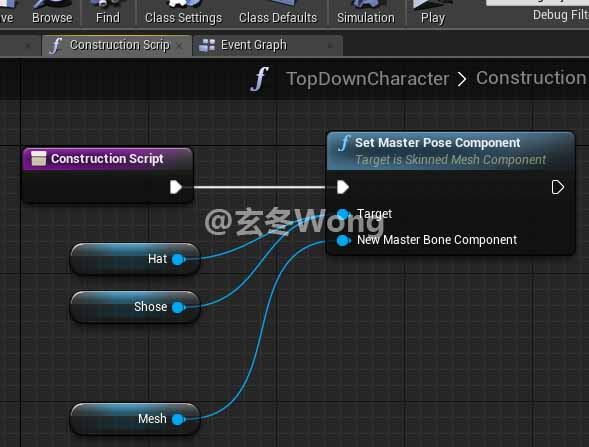
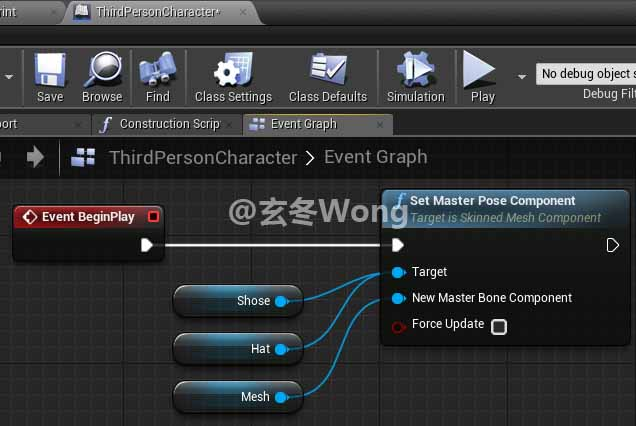
[A]add articles

diff --git a/content/post/2019/[Art]ArtStation Store Assets Collections.md b/content/post/2019/[Art]ArtStation Store Assets Collections.md
@@ -1,0 +1,87 @@
++++
+title= "[Art]ArtStation Store Assets Collections"
+date= "2019-02-12T18:53:02+08:00"
+categories= ["UnrealEngine4"]
+tags= ["UE4"]
+keywords= ["UE4", "Animation", "Assets"]
+thumbnailImage= "/thumbnail/cover-seattle-001.jpg"
+autoThumbnailImage= "true"
+thumbnailImagePosition= "top"
++++
+
+##### Scene Painting
+<!--more-->
+Full-size ILLUSTRATION 5PACK  
+https://www.artstation.com/kvacm/store/We5G/full-size-illustration-5pack
+
+Destroyed City - Matte Painting for Production  
+https://www.artstation.com/anirbansen/store/d5G0/destroyed-city-matte-painting-for-production
+
+LANIGT  
+https://www.artstation.com/billfy/store/5j2l/lanigt
+
+Tutorial Bundle 3 in 1 (Fantasy)  
+https://www.artstation.com/raphael-lacoste/store/r508/tutorial-bundle-3-in-1-fantasy
+
+Illustration Pack 09  
+https://www.artstation.com/andreasrocha/store/KXnd/illustration-pack-09
+
+Illustration Pack 18  
+https://www.artstation.com/andreasrocha/store/jjeM/illustration-pack-18
+
+Illustration Process - April 18  
+https://www.artstation.com/waqasmalik/store/MJV5/illustration-process-april-18
+
+Illustration Pack 38  
+https://www.artstation.com/andreasrocha/store/gMaO/illustration-pack-38
+
+Intro to 3D Kitbashing for Environment Design  
+https://www.artstation.com/wootha/store/Wr97/intro-to-3d-kitbashing-for-environment-design
+
+Illustration Process - October 17  
+https://www.artstation.com/waqasmalik/store/5Nzd/illustration-process-october-17
+
+##### Character Painting
+
+Dephanie: Full video process + Brushes  
+https://www.artstation.com/daole/store/MJLM/dephanie-full-video-process-brushes
+
+Basic Rendering Tips - Matte and Metal  
+https://www.artstation.com/robotpencil/store/kk7z/basic-rendering-tips-matte-and-metal
+
+Setting up Lights in a Painting  
+https://www.artstation.com/robotpencil/store/ajVN/setting-up-lights-in-a-painting
+
+How to Draw Females  
+https://www.artstation.com/robotpencil/store/1g2o/how-to-draw-females
+
+##### Character Modeling
+
+Kat - girl in swimsuit. 3d Realtime chracter with 4k PBR textures.  
+https://www.artstation.com/kuhlhaus3d/store/bb1r/kat-girl-in-swimsuit-3d-realtime-chracter-with-4k-pbr-textures
+
+VDM Fur Brush for Zbrush 2018  
+https://www.artstation.com/davidsu/store/yrL8/vdm-fur-brush-for-zbrush-2018
+
+Blender 2.8: Turn your 2D drawing into a 3D model using Grease Pencil  
+https://www.artstation.com/jama/store/9aDV/blender-2-8-turn-your-2d-drawing-into-a-3d-model-using-grease-pencil
+
+##### Materials
+
+Melting Snow | Substance Designer Tutorial  
+https://www.artstation.com/dete/store/l1AY/melting-snow-substance-designer-tutorial
+
+Desert Bedrock | Substance Designer Tutorial  
+https://www.artstation.com/dete/store/5jM1/desert-bedrock-substance-designer-tutorial
+
+Jungle Mud | Substance Designer Tutorial  
+https://www.artstation.com/dete/store/qDBO/jungle-mud-substance-designer-tutorial
+
+##### Photography
+
+Reference: Grand Canyon National Park Pack 115  
+https://www.artstation.com/tashina/store/gXW/reference-grand-canyon-national-park-pack-115
+
+***
+`一个人并不是经常找到休息的机会，只有作为人的自我，作为一个楔形的内核，才能获得休息。抛弃了外表的个性，你就抛弃了那些烦恼、匆忙、骚动；当一切都集中到这种和平、安宁、永恒的境界之中，于是某种战胜了生活的凯旋的欢呼，就升腾到她的唇边。——弗吉尼亚·吴尔夫《到灯塔去》`
+

diff --git a/content/post/2018/[UE4]Scene Assets Collections.md b/content/post/2018/[UE4]Scene Assets Collections.md
@@ -34,6 +34,9 @@ https://www.unrealengine.com/marketplace/post-apocalyptic-industrial-scene
 Futuristic modular top-down rooftop  
 https://cubebrush.co/matima-studio/products/cdfga-vJET/futuristic-modular-top-down-rooftop
 
+Sci-Fi Modular Environment  
+https://www.unrealengine.com/marketplace/sci-fi-modular-environment
+
 ##### Ruins
 
 Overgrown Ruins  
@@ -63,6 +66,9 @@ https://www.unrealengine.com/marketplace/profile/Gokhan%20Karadayi
 
 Procedural Nature Seasons Pack  
 https://www.unrealengine.com/marketplace/procedural-nature-pack-vol-01
+
+PLE - Procedural Landscape Ecosystem
+https://www.unrealengine.com/marketplace/procedural-landscape-ecosystem
 
 ##### Deserts
 
@@ -99,6 +105,14 @@ https://www.unrealengine.com/marketplace/stylized-lost-island
 Submerged City Asset Pack - Water World Edition - Full package UE4 and FBX  
 https://www.unrealengine.com/marketplace/submerged-city-asset-pack-water-world-edition-full-package-ue4-and-fbx
 
+##### Sky
+
+Ultra Dynamic Sky  
+https://www.unrealengine.com/marketplace/ultra-dynamic-sky
+
+Cloudscape Seasons  
+https://www.unrealengine.com/marketplace/cloudscape-seasons
+
 ### Toturials
 
 Create 3D Landscapes with Brushify  
@@ -109,6 +123,12 @@ https://www.artstation.com/artwork/e2qbP
 
 UE4 Scene: Materials, Lighting, Water  
 https://80.lv/articles/003qxl-ue4-scene-materials-lighting-water/
+
+Reimagining The Past of Hanamura from Overwatch  
+https://80.lv/articles/reimagining-the-past-of-hanamura-from-overwatch/
+
+UE4 Cloud Creation Tutorial  
+https://80.lv/articles/ue4-cloud-creation-tutorial/
 
 Reimagining The Past of Hanamura from Overwatch  
 https://80.lv/articles/reimagining-the-past-of-hanamura-from-overwatch/

diff --git a/content/post/2018/[UE4][Animation]Multiple skeleton meshes sharing same skeleton(多个SkeletonMesh共用一套骨骼).md b/content/post/2018/[UE4][Animation]Multiple skeleton meshes sharing same skeleton(多个SkeletonMesh共用一套骨骼).md
@@ -22,7 +22,7 @@ keywords：UE4 Animation、Set Master Pose Component、customizable character、
 
 {{< figure src="/img/20180529-[UE4][Animation]Multiple skeleton meshes sharing same skeleton(多个SkeletonMesh共用一套骨骼)/[UE4][Animation]Multiple skeleton meshes sharing same skeleton(多个SkeletonMesh共用一套骨骼)-03.jpg">}}
 
-最后再在角色蓝图的Construction Script中Set Master Pose Component
+最后在BeginPlay事件中执行`Set Master Pose Component`
 
 {{< figure src="/img/20180529-[UE4][Animation]Multiple skeleton meshes sharing same skeleton(多个SkeletonMesh共用一套骨骼)/[UE4][Animation]Multiple skeleton meshes sharing same skeleton(多个SkeletonMesh共用一套骨骼)-04.jpg">}}
 
@@ -31,11 +31,20 @@ keywords：UE4 Animation、Set Master Pose Component、customizable character、
 参考自：How to Setup "Master Pose Component"  
 https://answers.unrealengine.com/questions/228601/how-to-setup-master-pose-component.html
 
+{{< alert danger >}}
+注意事项：不要在构造函数中执行`SetMasterPoseComponent`，否则会出现莫名其妙的问题，比如：Mesh的LOD失效。
+{{< /alert >}}
+
+How to make SetMasterPoseComponent work with skeletal meshes with LODs?  
+https://answers.unrealengine.com/questions/793802/how-to-make-setmasterposecomponent-work-with-skele.html
+
+
+
 ##### C++接口
 
 `Set Master Pose Component`蓝图节点对应的C++ API：
 
-    Child->SetMaseterPoseComponent(Body);
+    Child->SetMasterPoseComponent(Body);
 
 ***
 `有一个传说，说的是有那么一只鸟儿，它一生只唱一次，那歌声比世上所有一切生灵的歌声都更加优美动听。---《荆棘鸟》`

diff --git a/content/post/2019/[UE4]Lighting Assets Collections.md b/content/post/2019/[UE4]Lighting Assets Collections.md
@@ -1,5 +1,5 @@
 +++
-title= "[UE4]IES Light Profile Collections"
+title= "[UE4]Lighting Assets Collections"
 date= "2019-01-17T16:23:02+08:00"
 categories= ["UnrealEngine4"]
 tags= ["UE4"]
@@ -7,6 +7,8 @@ keywords= ["UE4", "Light", "IES"]
 thumbnailImagePosition= "left"
 thumbnailImage= "/thumbnail/thumbnail-japen-013.jpg"
 +++
+
+##### IES Light
 
 IES Light Profile  
 <!--more-->
@@ -17,6 +19,16 @@ https://www.unrealengine.com/marketplace/ies-texture-mega-pack-100-ies-textures
 
 IES Light Profile Pack  
 https://www.unrealengine.com/marketplace/ies-light-profile-pack
+
+##### Ambient Lighting
+
+Cheap Ambient Lighting System  
+https://www.unrealengine.com/marketplace/ambient-light-probes
+
+##### Godray
+
+Lazy Godray  
+https://www.unrealengine.com/marketplace/lazy-godray
 
 ***
 `他们如此单纯，以至于认为贫穷是一种罪过，还以为可以通过赚钱来遗忘。`——杰拉尔·萨利克

diff --git a/content/post/2019/[UE4]VFX Assets Collections.md b/content/post/2019/[UE4]VFX Assets Collections.md
@@ -26,8 +26,13 @@ https://www.unrealengine.com/marketplace/cartoon-fx-pack-4-4-in
 Stylized FX 2  
 https://www.unrealengine.com/marketplace/stylized-fx
 
+##### Slash
+
 M5 VFX RPG1. Sword Trails  
 https://www.unrealengine.com/marketplace/m5-vfx-rpg1-sword-trails
+
+Elemental Slash FX  
+https://www.unrealengine.com/marketplace/elemental-slash-fx
 
 ##### Si-fi
 
@@ -61,7 +66,8 @@ https://www.unrealengine.com/marketplace/lazy-godray
 Building Transmutator in Unreal and Houdini  
 https://80.lv/articles/building-transmutator-in-unreal-and-houdini/
 
-https://80.lv/articles/building-transmutator-in-unreal-and-houdini/
+Destiny 2: VFX Production Tips  
+https://80.lv/articles/destiny-2-vfx-production-tips/
 
 ***
 `最高贵的复仇是宽容。`──维克多·雨果（HugoVictor）

diff --git a/content/post/2017/[UE4]Dedicated Server同步示例全流程(登录、Replication和RPC).md b/content/post/2017/[UE4]Dedicated Server同步示例全流程(登录、Replication和RPC).md
@@ -382,10 +382,15 @@ https://forums.unrealengine.com/development-discussion/c-gameplay-programming/96
 http://pan.baidu.com/s/1o7MzmRo
     
 ##### 参考文章
+
 属性同步：  
-http://blog.csdn.net/yangxuan0261/article/details/54766955  
+http://blog.csdn.net/yangxuan0261/article/details/54766955
+
 RPC：  
 http://blog.csdn.net/yangxuan0261/article/details/54766951
+
+How To Use Sessions In C++  
+https://wiki.unrealengine.com/How_To_Use_Sessions_In_C%2B%2B
 
 ***
 `天下事，成于精而败于众，立于诚而倾于奢。`

diff --git a/content/post/2019/[UE4]Animation Assets Collections.md b/content/post/2019/[UE4]Animation Assets Collections.md
@@ -4,9 +4,8 @@ date= "2019-02-01T18:34:02+08:00"
 categories= ["UnrealEngine4"]
 tags= ["UE4"]
 keywords= ["UE4", "Animation", "Assets"]
-thumbnailImage= "/thumbnail/cover-seattle-001.jpg"
-autoThumbnailImage= "true"
-thumbnailImagePosition= "top"
+thumbnailImagePosition= "left"
+thumbnailImage= "/thumbnail/thumbnail-japen-018.jpg"
 +++
 
 .
